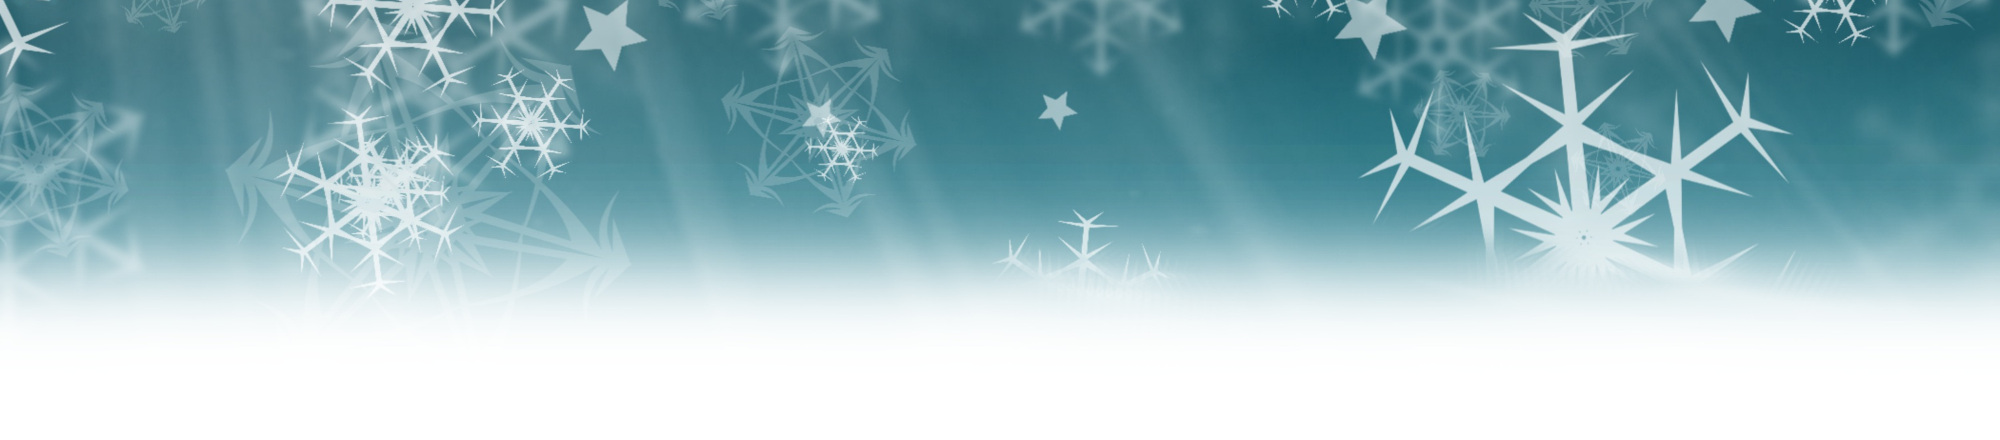
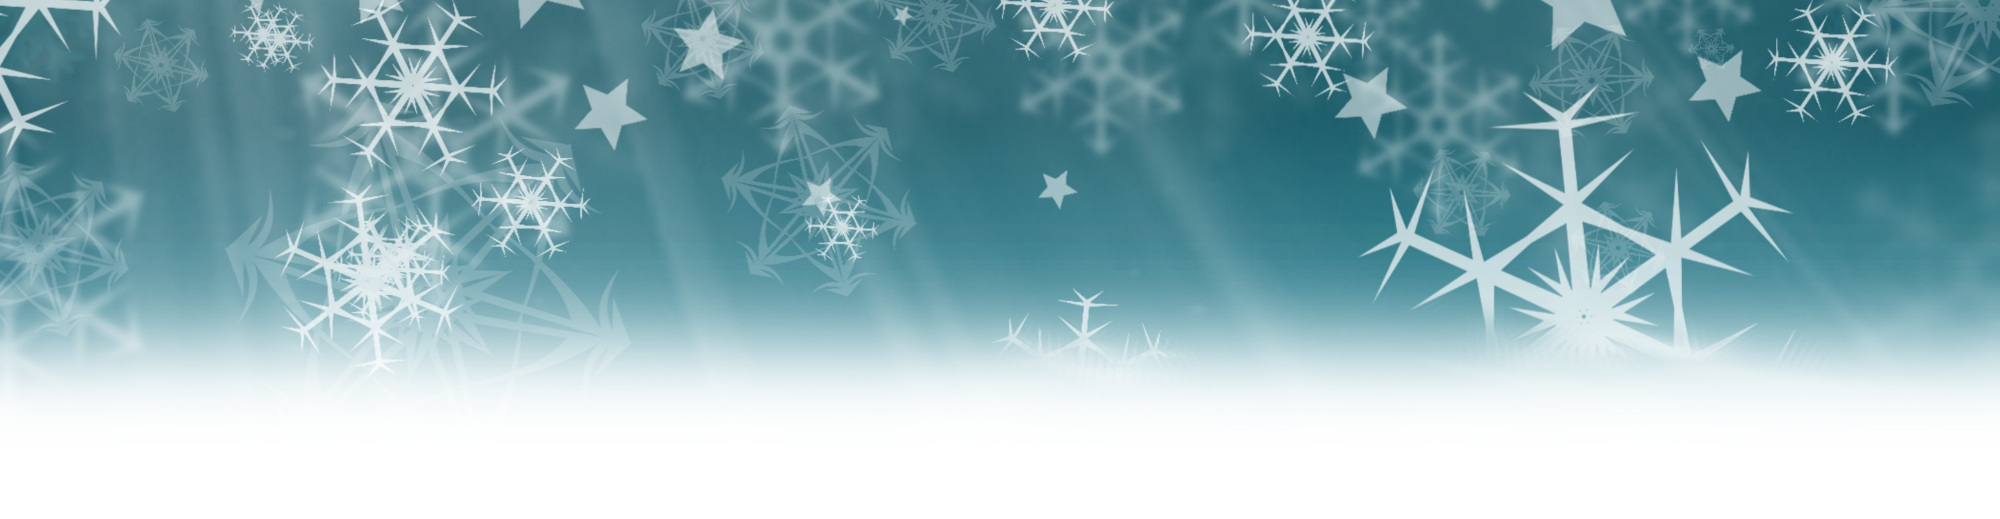
test

diff --git a/css/main.css b/css/main.css
@@ -2,12 +2,12 @@ body {
 	font-family: 'Source Han Sans CN', 'WenQuanYi Zen Hei', 'WenQuanYi Micro Hei', 'Microsoft YaHei', 'Helvetica', 'Arial', sans-serif;
 	margin: 60px auto;
 	width: 90%;
-	font-size: 20px;
+	font-size: 22px;
 }
 @media (min-width: 1000px) {
     body {
         width: 80%;
-	font-size: 19px;
+	font-size: 20px;
     }
 }
 @media (min-width: 1300px) {
@@ -31,6 +31,7 @@ nav ul li, footer ul li {
 	box-shadow: 3px 3px 8px 0px #64C9FF;
 	padding: 4px 10px 4px 10px;
 	margin: 0 1ex 0 0;
+	white-space: nowrap;
 }
 a {
 	text-decoration: none;
